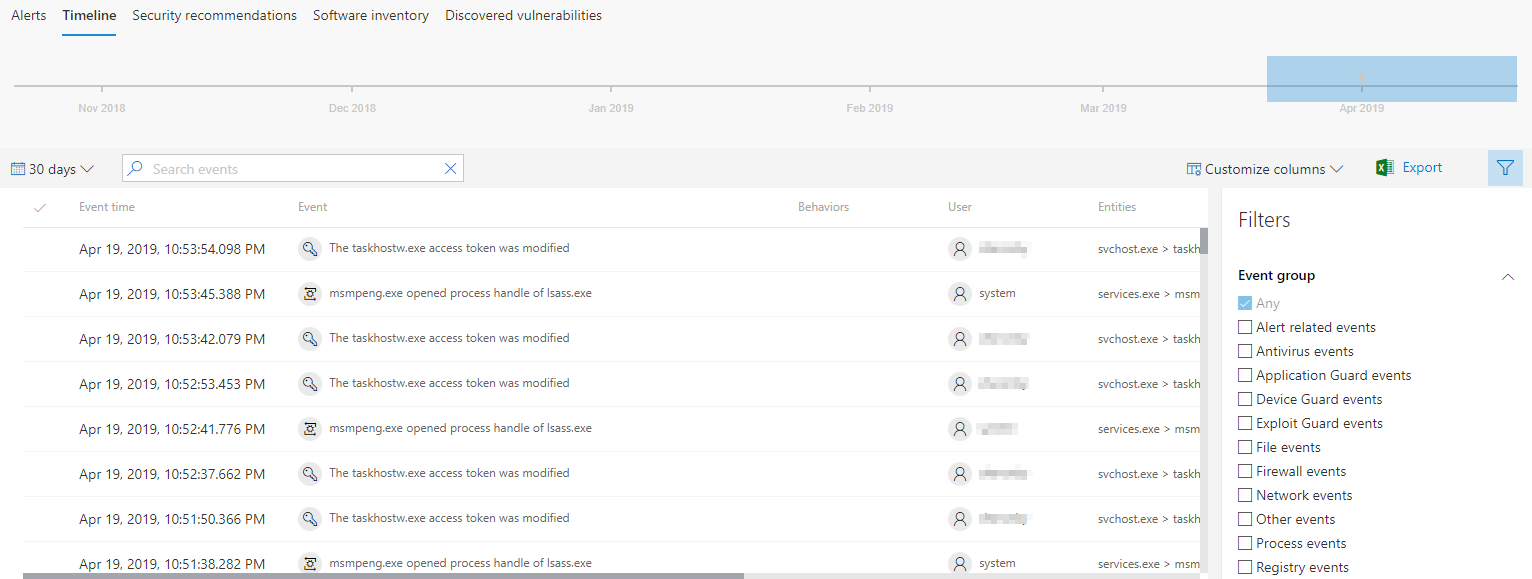
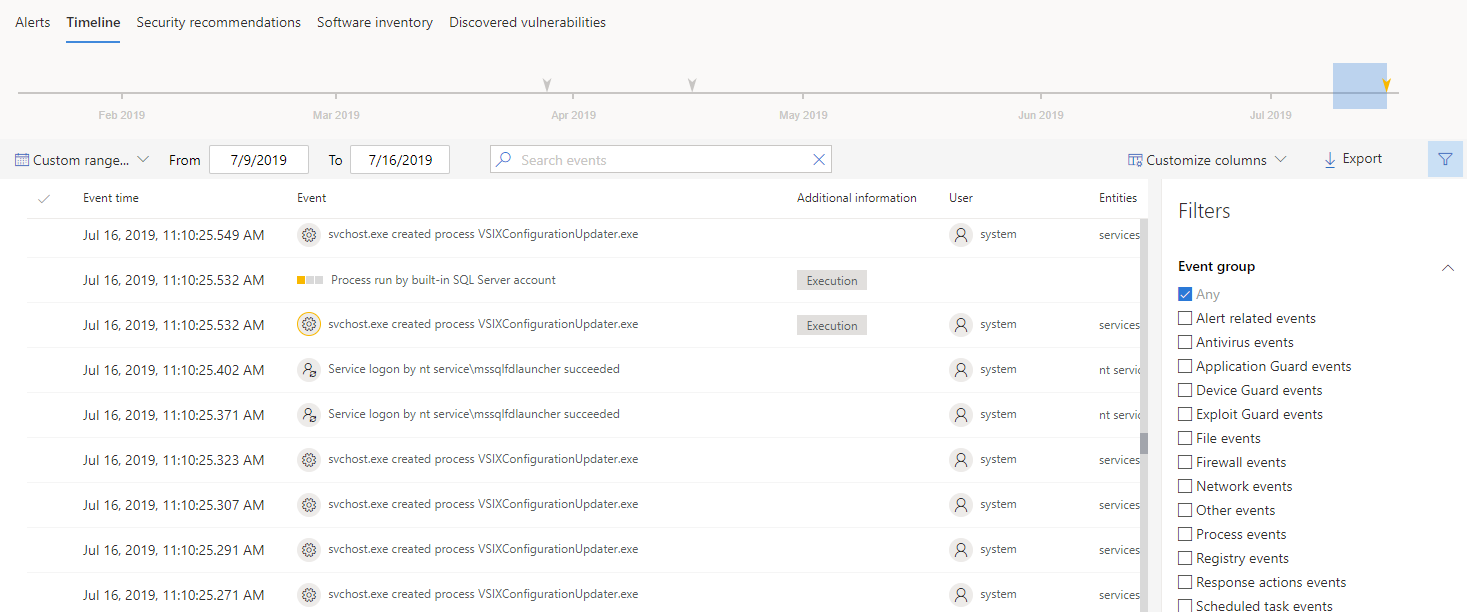
Fixes to investigate machines

diff --git a/windows/security/threat-protection/microsoft-defender-atp/investigate-machines.md b/windows/security/threat-protection/microsoft-defender-atp/investigate-machines.md
@@ -109,7 +109,7 @@ To see a full page view of an alert including incident graph and process tree, s
 
 The **Timeline** section provides a chronological view of the events and associated alerts that have been observed on the machine. This can help you correlate any events, files, and IP addresses in relation to the machine.
 
-Timeline also enables you to selectively drill down into events that occurred within a given time period. You can view the temporal sequence of events that occurred on a machine over a selected time period. To further control your view, you can filter by event groups or customize the columns.
+The timeline also enables you to selectively drill down into events that occurred within a given time period. You can view the temporal sequence of events that occurred on a machine over a selected time period. To further control your view, you can filter by event groups or customize the columns.
 
 >[!NOTE]
 > For firewall events to be displayed, you'll need to enable the audit policy, see [Audit Filtering Platform connection](https://docs.microsoft.com/windows/security/threat-protection/auditing/audit-filtering-platform-connection).
@@ -131,15 +131,15 @@ Some of the functionality includes:
 - Export detailed machine timeline events
   - Export the machine timeline for the current date or a specified date range up to seven days.
 
-Along with event time and users, one of the main categories on the timeline is "Details". They describe what happened in the events. The list of possible details are:
+Each event includes an **Additional information** section that provides more detail depending on the type of event: 
 
-- Contained by Application Guard
-- Active threat detected - when the detection happened, the threat was executing (i.e. it was running)
-- Remediation unsuccessful - remediation was invoked but failed
-- Remediation successful - the threat was stopped and cleaned up
-- Warning bypassed by user - SmartScreen warning appeared but the user dismissed it
-- Suspicious script detected
-- Alert category (e.g. lateral movement)- if the event is correlated to an alert, the tag will show the alert category
+- Contained by Application Guard - the web browser event was restricted by an isolated container 
+- Active threat detected - the threat detection occurred while the threat is running
+- Remediation unsuccessful - an attempt to remediate the detected threat was invoked but failed
+- Remediation successful - the detected threat was stopped and cleaned
+- Warning bypassed by user - the SmartScreen warning was dismissed and overridden by a user
+- Suspicious script detected - a potentially malicious script was found running
+- The alert category - if the event led to the generation of an alert, the alert category  ("Lateral Movement", for example) is provided
 
 You can also use the [Artifact timeline](investigate-alerts.md#artifact-timeline) feature to see the correlation between alerts and events on a specific machine.
 
